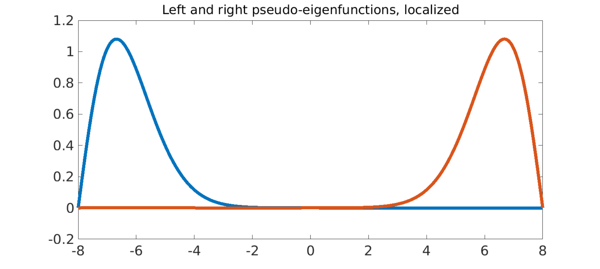
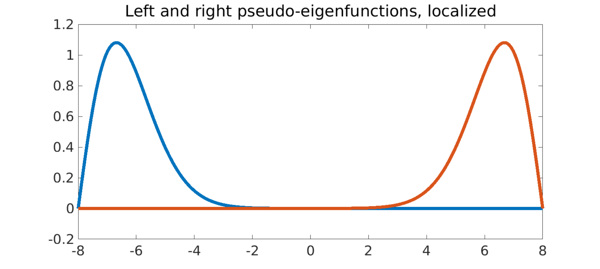
Publish example ode-eig/ContinuousWilkinson.
This message was auto-generated by publish-example.sh.

diff --git a/examples/ode-eig/img/ContinuousWilkinson.html b/examples/ode-eig/img/ContinuousWilkinson.html
@@ -39,7 +39,7 @@ For both our matrix and our differential operator problems, mathematically one e
 <pre class="mcode-input">right = V(:,4) + V(:,3);
 left = V(:,4) - V(:,3);
 plot([left right],LW,6)
-title('Left and right pseudo-eigenfunctions, localized',FS,32)</pre><img src="img/ContinuousWilkinson_02.png" class="figure" alt="">
+title('Left and right pseudo-eigenfunctions, localized',FS,40)</pre><img src="img/ContinuousWilkinson_02.png" class="figure" alt="">
 
 Let's confirm that these are pseudo-eigenfunctions.  First we confirm that the eigenfunctions are eigenfunctions:
 

diff --git a/examples/ode-eig/ContinuousWilkinson.html b/examples/ode-eig/ContinuousWilkinson.html
@@ -99,7 +99,7 @@ title('Even and odd eigenfunctions, nearly degenerate',FS,40)</pre>
 <pre class="mcode-input">right = V(:,4) + V(:,3);
 left = V(:,4) - V(:,3);
 plot([left right],LW,6)
-title('Left and right pseudo-eigenfunctions, localized',FS,32)</pre>
+title('Left and right pseudo-eigenfunctions, localized',FS,40)</pre>
 
 <p><img src="img/ContinuousWilkinson_02.png" class="figure" alt=""></p>
 <p>Let's confirm that these are pseudo-eigenfunctions.  First we confirm that the eigenfunctions are eigenfunctions:</p>

diff --git a/index.html b/index.html
@@ -269,5 +269,5 @@ plot(minx(1),minx(2),'.w')
     <script type="text/javascript" src="/js/config.js"></script>
     <script type="text/javascript" src="/js/jquery.flexslider-min.js"></script>
   </body>
-<!-- Compiled on Tuesday, 18 April 2017 at 10:16. -->
+<!-- Compiled on Tuesday, 18 April 2017 at 10:32. -->
 </html>

diff --git a/examples/ode-eig/ContinuousWilkinson.m b/examples/ode-eig/ContinuousWilkinson.m
@@ -55,7 +55,7 @@ title('Even and odd eigenfunctions, nearly degenerate',FS,40)
 right = V(:,4) + V(:,3);
 left = V(:,4) - V(:,3);
 plot([left right],LW,6)
-title('Left and right pseudo-eigenfunctions, localized',FS,32)
+title('Left and right pseudo-eigenfunctions, localized',FS,40)
 
 %%
 % Let's confirm that these are pseudo-eigenfunctions.  First we
